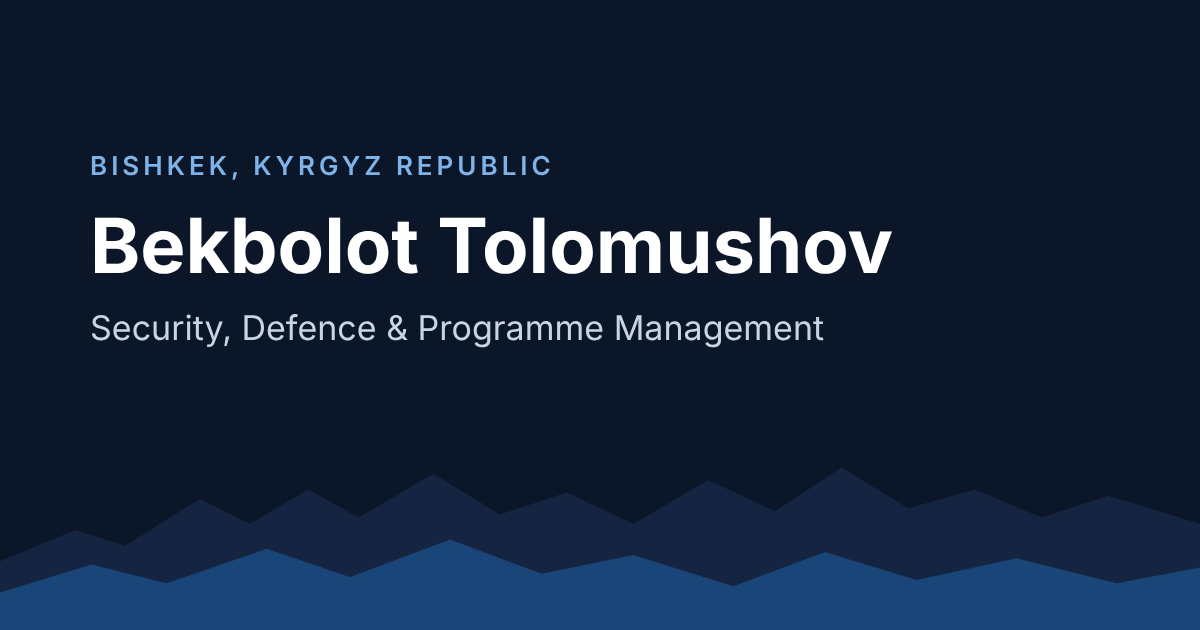
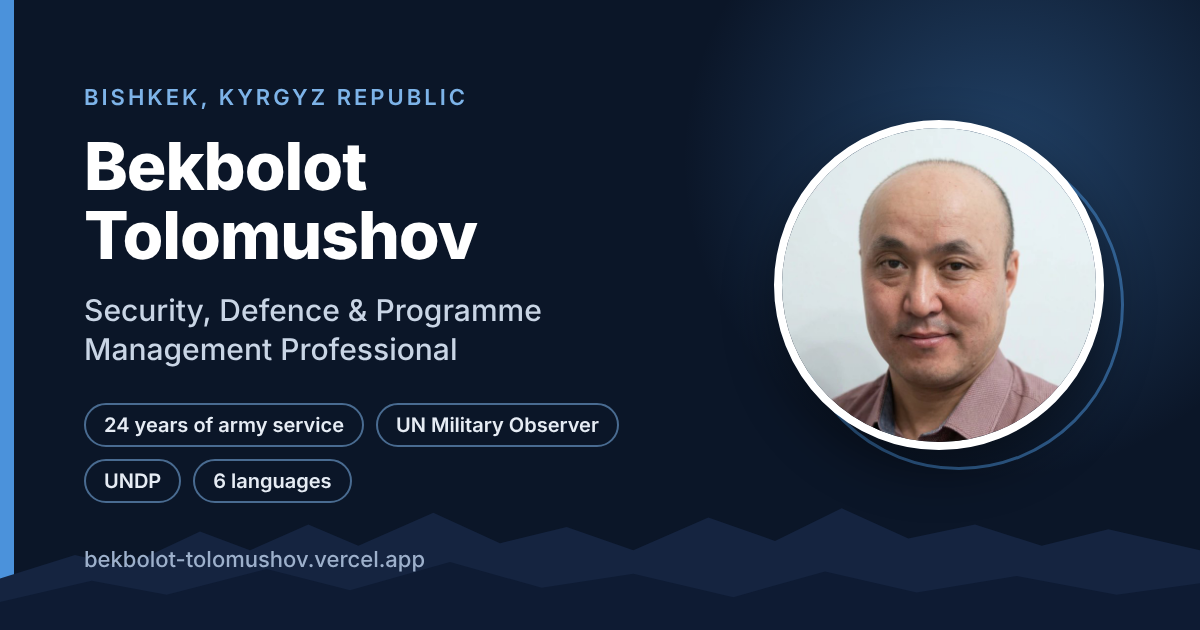
New link-preview image with portrait, title and key facts
Also adds image alt text, site name and Twitter/X tags, and a version
parameter so social networks fetch the new picture.

Claude-Session: https://claude.ai/code/session_01TntCANHNt7WZSavMTRzySH

diff --git a/index.html b/index.html
@@ -23,12 +23,25 @@
       content="24 years in the Armed Forces of the Kyrgyz Republic, UN Military Observer (UNSMIS Syria, UNAMID Darfur), security operations with UNDP and diplomatic missions."
     />
     <meta property="og:url" content="https://bekbolot-tolomushov.vercel.app/" />
-    <meta property="og:image" content="https://bekbolot-tolomushov.vercel.app/og-image.png" />
+    <!-- ?v=2: change the number after replacing og-image.png so LinkedIn, Telegram etc. fetch the new picture -->
+    <meta property="og:image" content="https://bekbolot-tolomushov.vercel.app/og-image.png?v=2" />
+    <meta property="og:image:type" content="image/png" />
     <meta property="og:image:width" content="1200" />
     <meta property="og:image:height" content="630" />
+    <meta
+      property="og:image:alt"
+      content="Bekbolot Tolomushov, Security, Defence and Programme Management Professional, Bishkek, Kyrgyz Republic"
+    />
+    <meta property="og:site_name" content="Bekbolot Tolomushov" />
     <meta property="og:locale" content="en_GB" />
     <meta property="og:locale:alternate" content="ru_RU" />
     <meta name="twitter:card" content="summary_large_image" />
+    <meta name="twitter:title" content="Bekbolot Tolomushov | Security, Defence & Programme Management" />
+    <meta
+      name="twitter:description"
+      content="24 years in the Armed Forces of the Kyrgyz Republic, UN Military Observer (UNSMIS Syria, UNAMID Darfur), security operations with UNDP and diplomatic missions."
+    />
+    <meta name="twitter:image" content="https://bekbolot-tolomushov.vercel.app/og-image.png?v=2" />
 
     <link rel="icon" type="image/svg+xml" href="/favicon.svg" />
     <link rel="apple-touch-icon" href="/apple-touch-icon.png" />
